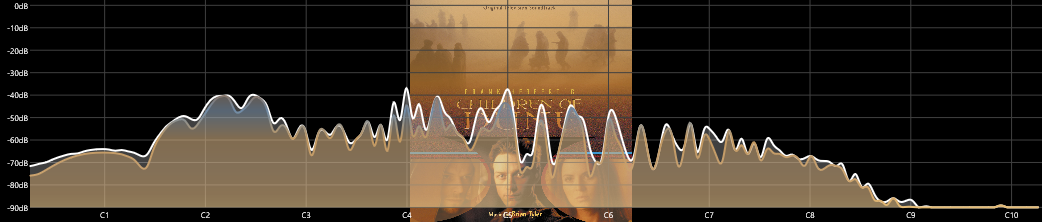
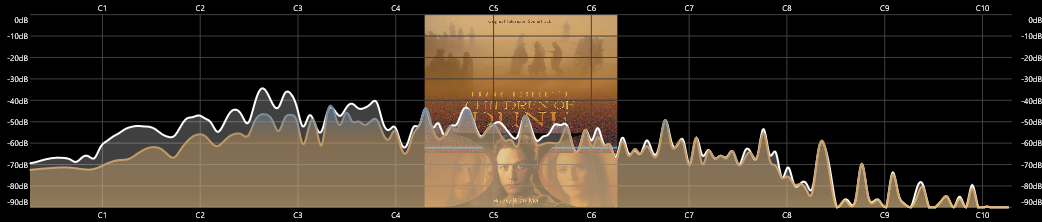
Implemented zoom modes

diff --git a/Visuals/Artwork.cpp b/Visuals/Artwork.cpp
@@ -1,5 +1,5 @@
 
-/** $VER: Artwork.cpp (2024.01.28) P. Stuer **/
+/** $VER: Artwork.cpp (2024.02.14) P. Stuer **/
 
 #include "Artwork.h"
 
@@ -36,6 +36,42 @@ HRESULT Artwork::Initialize(const std::wstring & filePath) noexcept
     _Raster.clear();
 
     return S_OK;
+}
+
+/// <summary>
+/// Renders this instance to the specified render target.
+/// </summary>
+void Artwork::Render(ID2D1RenderTarget * renderTarget, const D2D1_RECT_F & bounds, const State * state) const noexcept
+{
+    if (_Bitmap == nullptr)
+        return;
+
+    D2D1_RECT_F Rect = bounds;
+    D2D1_SIZE_F Size = _Bitmap->GetSize();
+
+    const FLOAT MaxWidth  = Rect.right  - Rect.left;
+    const FLOAT MaxHeight = Rect.bottom - Rect.top;
+
+    FLOAT WScalar = 1.f;
+    FLOAT HScalar = 1.f;
+
+    if ((state->_ZoomMode == ZoomMode::FitWidth) || (state->_ZoomMode == ZoomMode::FitBig))
+        WScalar = (Size.width  > MaxWidth)  ? (FLOAT) MaxWidth  / (FLOAT) Size.width  : 1.f;
+
+    if ((state->_ZoomMode == ZoomMode::FitHeight) || (state->_ZoomMode == ZoomMode::FitBig))
+        HScalar = (Size.height > MaxHeight) ? (FLOAT) MaxHeight / (FLOAT) Size.height : 1.f;
+
+    const FLOAT Scalar = (std::min)(WScalar, HScalar);
+
+    Size.width  *= Scalar;
+    Size.height *= Scalar;
+
+    Rect.left   += (MaxWidth  - Size.width)  / 2.f;
+    Rect.top    += (MaxHeight - Size.height) / 2.f;
+    Rect.right   = Rect.left + Size.width;
+    Rect.bottom  = Rect.top  + Size.height;
+
+    renderTarget->DrawBitmap(_Bitmap, Rect, state->_ArtworkOpacity, D2D1_BITMAP_INTERPOLATION_MODE::D2D1_BITMAP_INTERPOLATION_MODE_LINEAR);
 }
 
 /// <summary>

diff --git a/Visuals/Graph.cpp b/Visuals/Graph.cpp
@@ -86,33 +86,8 @@ void Graph::RenderBackground(ID2D1RenderTarget * renderTarget, const Artwork & a
         renderTarget->FillRectangle(_Bounds, style->_Brush);
 
     // Render the bitmap if there is one.
-    if ((artwork.Bitmap() == nullptr) || (_State->_BackgroundMode != BackgroundMode::Artwork))
-        return;
-
-    D2D1_RECT_F Rect = GetSpectrum().GetBounds();
-    D2D1_SIZE_F Size = artwork.Size();
-
-    FLOAT MaxWidth  = Rect.right  - Rect.left;
-    FLOAT MaxHeight = Rect.bottom - Rect.top;
-
-    // Fit big images (Free / FitBig / FitWidth / FitHeight)
-    {
-        // Fit big images.
-        FLOAT HScalar = (Size.width  > MaxWidth)  ? (FLOAT) MaxWidth  / (FLOAT) Size.width  : 1.f;
-        FLOAT VScalar = (Size.height > MaxHeight) ? (FLOAT) MaxHeight / (FLOAT) Size.height : 1.f;
-
-        FLOAT Scalar = (std::min)(HScalar, VScalar);
-
-        Size.width  *= Scalar;
-        Size.height *= Scalar;
-    }
-
-    Rect.left   += (MaxWidth  - Size.width)  / 2.f;
-    Rect.top    += (MaxHeight - Size.height) / 2.f;
-    Rect.right   = Rect.left + Size.width;
-    Rect.bottom  = Rect.top  + Size.height;
-
-    renderTarget->DrawBitmap(artwork.Bitmap(), Rect, _State->_ArtworkOpacity, D2D1_BITMAP_INTERPOLATION_MODE::D2D1_BITMAP_INTERPOLATION_MODE_LINEAR);
+    if ((artwork.Bitmap() != nullptr) && (_State->_BackgroundMode == BackgroundMode::Artwork))
+        artwork.Render(renderTarget, GetSpectrum().GetBounds(), _State);
 }
 
 /// <summary>

diff --git a/Resources.h b/Resources.h
@@ -19,7 +19,7 @@
 /** Component specific **/
 
 #define STR_COMPONENT_NAME          "Spectrum Analyzer"
-#define STR_COMPONENT_VERSION       TOSTRING(NUM_FILE_MAJOR) "." TOSTRING(NUM_FILE_MINOR) "." TOSTRING(NUM_FILE_PATCH) "." TOSTRING(NUM_FILE_PRERELEASE) "-beta-1"
+#define STR_COMPONENT_VERSION       TOSTRING(NUM_FILE_MAJOR) "." TOSTRING(NUM_FILE_MINOR) "." TOSTRING(NUM_FILE_PATCH) "." TOSTRING(NUM_FILE_PRERELEASE) "-beta-2"
 #define STR_COMPONENT_BASENAME      "foo_vis_spectrum_analyzer"
 #define STR_COMPONENT_FILENAME      STR_COMPONENT_BASENAME ".dll"
 #define STR_COMPONENT_COMPANY_NAME  ""
@@ -36,7 +36,7 @@
 #define STR_COPYRIGHT           TEXT(STR_COMPONENT_COPYRIGHT)
 
 #define STR_FILE_NAME           TEXT(STR_COMPONENT_FILENAME)
-#define STR_FILE_VERSION        TOSTRING(NUM_FILE_MAJOR) TEXT(".") TOSTRING(NUM_FILE_MINOR) TEXT(".") TOSTRING(NUM_FILE_PATCH) TEXT(".") TOSTRING(NUM_FILE_PRERELEASE) "-beta-1"
+#define STR_FILE_VERSION        TOSTRING(NUM_FILE_MAJOR) TEXT(".") TOSTRING(NUM_FILE_MINOR) TEXT(".") TOSTRING(NUM_FILE_PATCH) TEXT(".") TOSTRING(NUM_FILE_PRERELEASE) "-beta-2"
 #define STR_FILE_DESCRIPTION    TEXT(STR_COMPONENT_DESCRIPTION)
 
 #define STR_PRODUCT_NAME        STR_INTERNAL_NAME

diff --git a/State.cpp b/State.cpp
@@ -168,6 +168,7 @@ void State::Reset() noexcept
     _BackgroundMode = BackgroundMode::Artwork;
     _ArtworkOpacity = 1.f;
     _ArtworkFilePath.clear();
+    _ZoomMode = ZoomMode::FitBig;
 
     _NumArtworkColors = 10;
     _LightnessThreshold = 250.f / 255.f;
@@ -366,6 +367,7 @@ State & State::operator=(const State & other)
     _BackgroundMode = other._BackgroundMode;
     _ArtworkOpacity = other._ArtworkOpacity;
     _ArtworkFilePath = other._ArtworkFilePath;
+    _ZoomMode = other._ZoomMode;
 
     // Visualization
     _VisualizationType = other._VisualizationType;
@@ -831,6 +833,8 @@ void State::Write(stream_writer * writer, abort_callback & abortHandler) const n
         writer->write_object_t(_SWIFTBandwidth, abortHandler);
 
         writer->write_object_t(_SuppressMirrorImage, abortHandler);
+
+        writer->write(&_ZoomMode, sizeof(_ZoomMode), abortHandler);
     }
     catch (exception & ex)
     {

diff --git a/State.h b/State.h
@@ -287,6 +287,15 @@ enum class ColorOrder
     LightnessDescending = 6,
 };
 
+enum class ZoomMode
+{
+    Free = 0,
+
+    FitBig,
+    FitWidth,
+    FitHeight,
+};
+
 /// <summary>
 /// Represents the configuration of the component.
 /// </summary>
@@ -457,6 +466,7 @@ public:
             BackgroundMode _BackgroundMode;
             FLOAT _ArtworkOpacity;                                      // 0.0 .. 1.0
             pfc::string _ArtworkFilePath;                               // Script that generates a valid file path to load artwork from.
+            ZoomMode _ZoomMode;
 
             uint32_t _NumArtworkColors;                                 // Number of colors to select from the artwork.
             FLOAT _LightnessThreshold;                                  // 0.0 .. 1.0

diff --git a/Visuals/Artwork.h b/Visuals/Artwork.h
@@ -1,9 +1,11 @@
 
-/** $VER: Artwork.h (2024.01.29) P. Stuer  **/
+/** $VER: Artwork.h (2024.02.14) P. Stuer  **/
 
 #pragma once
 
 #include "framework.h"
+
+#include "State.h"
 
 class Artwork
 {
@@ -19,6 +21,8 @@ public:
     HRESULT GetColors(std::vector<D2D1_COLOR_F> & colors, uint32_t colorCount, FLOAT lightnessThreshold, FLOAT transparencyThreshold) const noexcept;
 
     D2D1_SIZE_F Size() const noexcept { return (_Bitmap != nullptr) ? _Bitmap->GetSize() : D2D1::SizeF(); }
+
+    void Render(ID2D1RenderTarget * renderTarget, const D2D1_RECT_F & bounds, const State * state) const noexcept;
 
     ID2D1Bitmap * Bitmap() const noexcept { return _Bitmap; }
 

diff --git a/README.md b/README.md
@@ -15,6 +15,7 @@ and the [Audio Spectrum project](https://codepen.io/TF3RDL/pen/poQJwRW) for foob
 * Fast Fourier (FFT), Constant-Q (CQT) and Sliding Windowed Infinite Fourier (SWIFT) transforms
 * Multiple frequency range and smoothing options
 * Styling of all visual elements
+* Artwork background and color extraction
 * Uses DirectX rendering.
 * Supports the Default User Interface (DUI) and the [Columns User Interface](https://yuo.be/columns-ui) (CUI).
 * Supports dark mode.
@@ -83,6 +84,10 @@ Open `foo_vis_spectrum_analyzer.sln` with Visual Studio and build the solution.
 To create the component first build the x86 configuration and next the x64 configuration.
 
 ## Change Log
+
+v0.7.1.0-beta-2, 2024-02-xx
+
+*
 
 v0.7.1.0-beta-1, 2024-02-14
 
